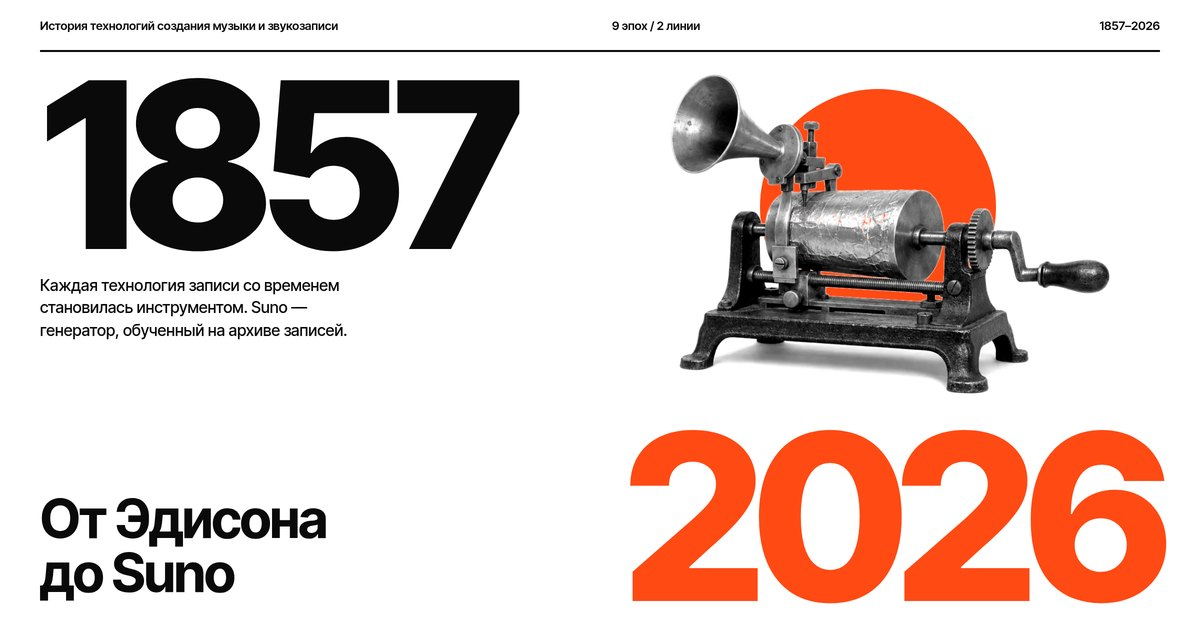
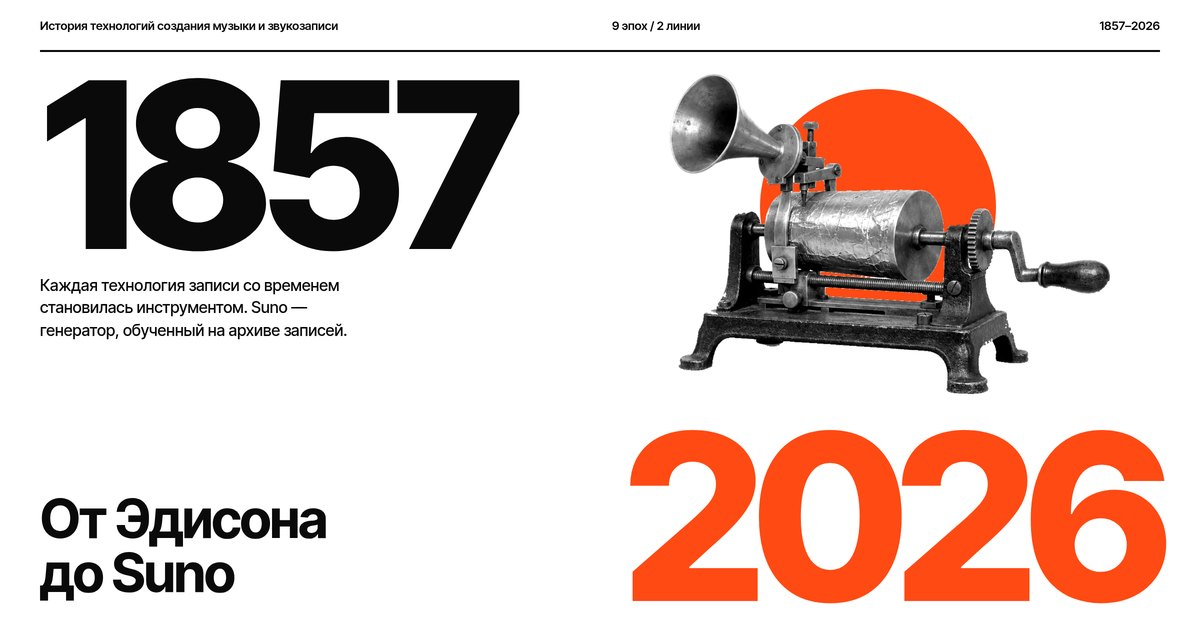
Обновление music-history (grok-lab 81797a2, noindex) (#29)
Заменяю /music-history/ сборкой music-history-dist-81797a2.tar.gz: новые картинки Арт-директора и перерисованный og.jpg. Файлы, которых нет в новой сборке, убираю. Другие страницы, sitemap и robots не трогаю. Черновик pimenov/grok-lab#25 не трогаю.

diff --git a/music-history/assets/index-BosEM7av.css b/music-history/assets/index-BosEM7av.css
@@ -1,0 +1,1 @@
+@font-face{font-family:Inter Tight;font-style:normal;font-display:swap;font-weight:500;src:url(/music-history/assets/inter-tight-cyrillic-500-normal-5ykfyGeh.woff2) format("woff2"),url(/music-history/assets/inter-tight-cyrillic-500-normal-CRXauZSq.woff) format("woff")}@font-face{font-family:Inter Tight;font-style:normal;font-display:swap;font-weight:600;src:url(/music-history/assets/inter-tight-cyrillic-600-normal-BERwQ0yl.woff2) format("woff2"),url(/music-history/assets/inter-tight-cyrillic-600-normal-BeTasGgk.woff) format("woff")}@font-face{font-family:Inter Tight;font-style:normal;font-display:swap;font-weight:700;src:url(/music-history/assets/inter-tight-cyrillic-700-normal-DtWWjp29.woff2) format("woff2"),url(/music-history/assets/inter-tight-cyrillic-700-normal-DDZiLR3d.woff) format("woff")}@font-face{font-family:Inter Tight;font-style:normal;font-display:swap;font-weight:800;src:url(/music-history/assets/inter-tight-cyrillic-800-normal-CC_RRmyd.woff2) format("woff2"),url(/music-history/assets/inter-tight-cyrillic-800-normal-ChWbk4mt.woff) format("woff")}@font-face{font-family:Inter Tight;font-style:normal;font-display:swap;font-weight:500;src:url(/music-history/assets/inter-tight-latin-500-normal-BFXNXuvF.woff2) format("woff2"),url(/music-history/assets/inter-tight-latin-500-normal-pobXraBK.woff) format("woff")}@font-face{font-family:Inter Tight;font-style:normal;font-display:swap;font-weight:600;src:url(/music-history/assets/inter-tight-latin-600-normal-BgSTtRxb.woff2) format("woff2"),url(/music-history/assets/inter-tight-latin-600-normal-D7bG6gX1.woff) format("woff")}@font-face{font-family:Inter Tight;font-style:normal;font-display:swap;font-weight:700;src:url(/music-history/assets/inter-tight-latin-700-normal-BZKd_v_8.woff2) format("woff2"),url(/music-history/assets/inter-tight-latin-700-normal-DvYAVZQd.woff) format("woff")}@font-face{font-family:Inter Tight;font-style:normal;font-display:swap;font-weight:800;src:url(/music-history/assets/inter-tight-latin-800-normal-CRGCHRPv.woff2) format("woff2"),url(/music-history/assets/inter-tight-latin-800-normal-D2te1T7i.woff) format("woff")}:root{--o: #ff4a14;--bg: #ffffff;--fg: #0a0a0a;--g: #7c7c78;--rule: rgba(10, 10, 10, .14);--img: none;--pad: 48px;color-scheme:light}:root[data-theme=dark]{--bg: #0a0a0a;--fg: #f4f4f0;--g: #9a9a96;--rule: rgba(244, 244, 240, .2);--img: none;color-scheme:dark}@media(prefers-color-scheme:dark){:root:not([data-theme=light]){--bg: #0a0a0a;--fg: #f4f4f0;--g: #9a9a96;--rule: rgba(244, 244, 240, .2);--img: none;color-scheme:dark}}*{box-sizing:border-box;margin:0;padding:0}html{background:var(--bg)}body{background:var(--bg);color:var(--fg);font-family:Inter Tight,Helvetica Neue,Arial,sans-serif;font-weight:500;-webkit-font-smoothing:antialiased;text-rendering:optimizeLegibility}img{display:block;max-width:100%;height:auto}ul,ol{list-style:none}h1,h2,h3{font:inherit}.wrap{max-width:1760px;margin:0 auto;padding:0 var(--pad);overflow-x:clip}.top{display:grid;grid-template-columns:repeat(12,1fr);column-gap:24px;align-items:center;min-height:64px;border-bottom:2px solid var(--fg);font-size:13px;font-weight:600}.t-title{grid-column:1 / 7}.t-meta{grid-column:7 / 10}.t-end{grid-column:10 / 13;display:flex;justify-content:flex-end;align-items:center;gap:18px}.theme{display:inline-flex;border:1.5px solid var(--fg)}.theme button{font:inherit;font-size:11px;font-weight:700;letter-spacing:.04em;text-transform:uppercase;color:var(--fg);background:transparent;border:0;padding:5px 8px;cursor:pointer}.theme button+button{border-left:1.5px solid var(--fg)}.theme button[aria-pressed=true]{background:var(--fg);color:var(--bg)}.theme button:focus-visible{outline:2px solid var(--o);outline-offset:2px}.hero{position:relative;container-type:inline-size}.hero .big,.hero .big2{font-weight:800;line-height:.8;letter-spacing:-.06em;white-space:nowrap}.hero .big2{color:var(--o)}.hero h1{font-weight:700;line-height:1;letter-spacing:-.03em}.hero .th{font-size:17px;line-height:1.4;font-weight:500}.ph-wrap{position:relative;margin:0}.hero .ph{position:relative;width:100%;filter:var(--img)}.hero .disc{position:absolute;border-radius:50%;background:var(--o)}.hero .disc:after{content:"";position:absolute;top:46.5%;right:46.5%;bottom:46.5%;left:46.5%;border-radius:50%;background:var(--bg)}.cap,figcaption{font-size:11px;font-weight:600;color:var(--g);text-transform:uppercase;letter-spacing:.05em}@media(min-width:900px){.hero{aspect-ratio:1344 / 836}.hero>*{position:absolute}.hero .big{left:0;top:2.1cqw;font-size:24.55cqw}.hero .big2{right:0;bottom:2.2cqw;font-size:24.55cqw}.hero .th{left:0;top:23.7cqw;width:29.8cqw;font-size:clamp(15px,1.27cqw,21px)}.hero h1{left:0;bottom:4.2cqw;font-size:4.76cqw}.ph-wrap{right:4.46cqw;top:5.2cqw;width:41.67cqw}.hero .disc{width:53.6%;aspect-ratio:1;right:25.9%;top:4.6%}.hero .cap{position:absolute;right:0;top:calc(100% + 1.4cqw)}}.head{display:grid;grid-template-columns:repeat(12,1fr);column-gap:24px;border-top:8px solid var(--fg);padding:18px 0 14px;font-size:13px;font-weight:700;text-transform:uppercase;letter-spacing:.06em}.head .h1{grid-column:1 / 4}.head .h2{grid-column:4 / 8}.head .h3{grid-column:8 / 13}.row{display:grid;grid-template-columns:repeat(12,1fr);column-gap:24px;border-top:2px solid var(--fg);padding:22px 0 34px;min-height:330px}.c-y{grid-column:1 / 4}.c-m{grid-column:4 / 8;border-left:1px solid var(--rule);padding-left:24px}.c-r{grid-column:8 / 13;border-left:1px solid var(--rule);padding-left:24px}.num{font-size:clamp(88px,8.9vw,140px);font-weight:800;letter-spacing:-.06em;line-height:.82}.rng{display:block;margin-top:14px;font-size:14px;font-weight:600}.lb{display:block;margin-top:4px;font-size:14px;color:var(--o);font-weight:600}.row ul,.cols2 ul{font-size:17px;line-height:1.45;font-weight:500}figure{margin-top:22px}.row figure img{height:200px;width:auto;max-width:100%;object-fit:contain;object-position:left bottom;filter:var(--img)}.row figure img.tall{height:260px}figcaption{margin-top:8px}.conv{display:block;width:100%;height:110px;border-top:2px solid var(--fg)}.conv path{fill:none;stroke:var(--o);stroke-width:3;vector-effect:non-scaling-stroke}.merge{--fg-m: #0a0a0a;background:var(--o);color:var(--fg-m);margin:0 calc(-1 * var(--pad));padding:36px var(--pad) 56px;border-top:8px solid var(--fg-m)}.m-grid{display:grid;grid-template-columns:repeat(12,1fr);column-gap:24px}.merge .c-y{grid-column:1 / 4}.merge .lb{color:var(--fg-m)}.merge .mid{grid-column:4 / 13;display:grid;grid-template-columns:1fr 1fr;gap:24px;align-items:start}.merge .ttl{font-size:clamp(80px,8.4vw,132px);font-weight:800;letter-spacing:-.06em;line-height:.85}.merge .ttl small{display:block;font-size:20px;letter-spacing:-.01em;font-weight:600;line-height:1.3;margin-top:16px;max-width:26ch}.merge .ai{justify-self:end;height:280px;width:auto;max-width:100%;object-fit:contain;object-position:right top}.cols2{grid-column:1 / 13;display:grid;grid-template-columns:repeat(12,1fr);column-gap:24px;margin-top:28px}.cols2 .a{grid-column:4 / 8}.cols2 .b{grid-column:8 / 13}.cols2 h3{font-size:13px;font-weight:700;text-transform:uppercase;letter-spacing:.06em;margin-bottom:6px}.suno{grid-column:1 / 13;display:grid;grid-template-columns:repeat(7,1fr);gap:24px;border-top:2px solid var(--fg-m);padding-top:18px;margin-top:40px}.suno b{display:block;font-size:clamp(36px,3.1vw,52px);font-weight:800;letter-spacing:-.04em;line-height:1.1}.suno time{font-size:13px;font-weight:600;font-variant-numeric:tabular-nums}footer{padding:56px 0 40px}.thesis{font-size:clamp(32px,3.4vw,60px);font-weight:700;letter-spacing:-.03em;line-height:1.05}.thesis span{color:var(--o)}.credit{margin-top:40px;padding-top:14px;border-top:2px solid var(--fg);font-size:11px;font-weight:600;color:var(--g);text-transform:uppercase;letter-spacing:.05em}@media(max-width:899px){:root{--pad: 28px}.top{display:flex;flex-wrap:wrap;gap:6px 16px;padding:12px 0;font-size:12px}.t-title{flex:1 1 100%}.t-meta{flex:1 1 auto}.t-end{flex:0 0 auto;gap:12px}.hero{display:flex;flex-direction:column;padding:20px 0 28px}.hero .big,.hero .big2{font-size:39vw}.hero .big2{align-self:flex-end;margin-top:28px}.ph-wrap{width:82%;align-self:flex-end;margin-top:-2vw}.hero .disc{width:56%;aspect-ratio:1;right:6%;top:-2%}.hero .cap{margin-top:10px;text-align:right}.hero .th{margin-top:18px;font-size:16px;max-width:34ch}.hero h1{margin-top:16px;font-size:clamp(40px,10.6vw,64px)}.head{display:none}.row{grid-template-columns:1fr 1fr;row-gap:20px;min-height:0;padding:20px 0 30px}.c-y{grid-column:1 / -1}.c-m{grid-column:1 / 2;border-left:0;padding-left:0}.c-r{grid-column:2 / 3}[data-col]:before{content:attr(data-col);display:block;margin-bottom:8px;font-size:11px;font-weight:700;text-transform:uppercase;letter-spacing:.06em;color:var(--g)}.num{font-size:clamp(88px,22vw,140px)}.row figure img{height:180px}.row figure img.tall{height:240px}.conv{display:none}.merge{padding:28px var(--pad) 40px}.merge .c-y,.merge .mid,.cols2 .a,.cols2 .b{grid-column:1 / -1}.merge .mid{grid-template-columns:1fr;margin-top:22px;gap:18px}.merge .ai{justify-self:start;height:auto;width:min(100%,340px)}.cols2{row-gap:18px}.suno{grid-template-columns:repeat(3,1fr);row-gap:18px;column-gap:16px;margin-top:32px}.suno li:last-child{grid-column:1 / -1;border-top:2px solid var(--fg-m);padding-top:14px}.suno li:last-child b{font-size:72px}}@media(max-width:599px){:root{--pad: 20px}.row{grid-template-columns:1fr}.c-m,.c-r{grid-column:1 / -1}.c-r{border-left:0;padding-left:0;border-top:1px solid var(--rule);padding-top:18px}}@media(prefers-reduced-motion:no-preference){.theme button{transition:background-color .15s,color .15s}}

diff --git a/music-history/index.html b/music-history/index.html
@@ -26,8 +26,8 @@
     <script>
       try { var t = localStorage.getItem('mh-theme'); if (t === 'light' || t === 'dark') document.documentElement.dataset.theme = t; } catch (_) {}
     </script>
-    <script type="module" crossorigin src="/music-history/assets/index-CN0f68r6.js"></script>
-    <link rel="stylesheet" crossorigin href="/music-history/assets/index-CAGWf9r-.css">
+    <script type="module" crossorigin src="/music-history/assets/index-DBLFZZJ3.js"></script>
+    <link rel="stylesheet" crossorigin href="/music-history/assets/index-BosEM7av.css">
   </head>
   <body>
     <div class="wrap">
@@ -43,7 +43,7 @@
           <div class="big" aria-hidden="true">1857</div>
           <figure class="ph-wrap">
             <div class="disc" aria-hidden="true"></div>
-            <img class="ph" src="/music-history/assets/phonograph-560-BThQbQwe.webp" srcset="/music-history/assets/phonograph-560-BThQbQwe.webp 560w, /music-history/assets/phonograph-900-Da0lwvns.webp 900w" sizes="(max-width: 899px) 82vw, min(41vw, 720px)" width="900" height="661" alt="Фонограф Эдисона: металлический цилиндр с ручкой и рупор на чугунной станине" fetchpriority="high" decoding="async">
+            <img class="ph" src="/music-history/assets/phonograph-600-BtGowPwj.webp" srcset="/music-history/assets/phonograph-600-BtGowPwj.webp 600w, /music-history/assets/phonograph-1200-DHYG77Um.webp 1200w" sizes="(max-width: 899px) 82vw, min(41vw, 720px)" width="1200" height="873" alt="Фонограф Эдисона: металлический цилиндр с ручкой и рупор на чугунной станине" fetchpriority="high" decoding="async">
             <figcaption class="cap">Фонограф Эдисона, 1877</figcaption>
           </figure>
           <p class="th">Каждая технология записи со временем становилась инструментом. Suno — генератор, обученный на архиве записей.</p>
@@ -68,7 +68,7 @@
       </article>
       <article class="row" aria-labelledby="era-1945">
         <div class="c-y"><div class="num" aria-hidden="true">1945</div><h2 id="era-1945"><span class="rng">1945–1959</span><span class="lb">Студия как инструмент</span></h2></div>
-        <div class="c-m" data-col="Создание музыки"><ul><li>Musique concrète, 1948</li><li>Fender Esquire, 1950</li><li>8 дорожек Ampex, 1955</li></ul><figure><img src="/music-history/assets/tape-320-B-APaFiX.webp" srcset="/music-history/assets/tape-320-B-APaFiX.webp 320w, /music-history/assets/tape-640-CV48W13Z.webp 640w" sizes="225px" width="640" height="569" alt="Студийный катушечный магнитофон с двумя бобинами плёнки" loading="lazy" decoding="async"><figcaption>Многодорожечная запись, 1955</figcaption></figure></div>
+        <div class="c-m" data-col="Создание музыки"><ul><li>Musique concrète, 1948</li><li>Fender Esquire, 1950</li><li>8 дорожек Ampex, 1955</li></ul><figure><img class="tall" src="/music-history/assets/tape-180-IKMxCP7f.webp" srcset="/music-history/assets/tape-180-IKMxCP7f.webp 180w, /music-history/assets/tape-360-D9x-UUUZ.webp 360w" sizes="165px" width="360" height="567" alt="Студийный катушечный магнитофон 1950-х в напольной стойке с индикаторами и ручками" loading="lazy" decoding="async"><figcaption>Многодорожечная запись, 1955</figcaption></figure></div>
         <div class="c-r" data-col="Звукозапись"><ul><li>LP Columbia, 1948</li><li>Сингл 45 об/мин, 1949</li><li>Стереодиск, 1957</li></ul><figure><img src="/music-history/assets/vinyl-320-jzRLHdkf.webp" srcset="/music-history/assets/vinyl-320-jzRLHdkf.webp 320w, /music-history/assets/vinyl-640-UZ0rdKu-.webp 640w" sizes="287px" width="640" height="446" alt="Долгоиграющая виниловая пластинка, выдвинутая из конверта" loading="lazy" decoding="async"><figcaption>Долгоиграющая пластинка, 1948</figcaption></figure></div>
       </article>
       <article class="row" aria-labelledby="era-1960">
@@ -84,12 +84,12 @@
       <article class="row" aria-labelledby="era-1991">
         <div class="c-y"><div class="num" aria-hidden="true">1991</div><h2 id="era-1991"><span class="rng">1991–2002</span><span class="lb">Компьютер — студия</span></h2></div>
         <div class="c-m" data-col="Создание музыки"><ul><li>Pro Tools, 1991</li><li>VST, 1996</li><li>Auto-Tune, 1997</li><li>Ableton Live, 2001</li></ul><figure><img src="/music-history/assets/computer-320-Ccso5JzK.webp" srcset="/music-history/assets/computer-320-Ccso5JzK.webp 320w, /music-history/assets/computer-640-DeduQ62J.webp 640w" sizes="196px" width="640" height="654" alt="Компьютер 1990-х с MIDI-клавиатурой и колонками, на экране звуковые дорожки" loading="lazy" decoding="async"><figcaption>Компьютер как студия, 1991</figcaption></figure></div>
-        <div class="c-r" data-col="Звукозапись"><ul><li>MP3, 1993</li><li>Napster, 1999</li></ul></div>
+        <div class="c-r" data-col="Звукозапись"><ul><li>MP3, 1993</li><li>Napster, 1999</li></ul><figure><img class="tall" src="/music-history/assets/mp3player-180-g3-Q8j43.webp" srcset="/music-history/assets/mp3player-180-g3-Q8j43.webp 180w, /music-history/assets/mp3player-360-BCgs7R9P.webp 360w" sizes="210px" width="360" height="445" alt="Карманный MP3-плеер с экраном, кнопками управления и наушниками" loading="lazy" decoding="async"><figcaption>MP3-плеер</figcaption></figure></div>
       </article>
       <article class="row" aria-labelledby="era-2003">
         <div class="c-y"><div class="num" aria-hidden="true">2003</div><h2 id="era-2003"><span class="rng">2003–2019</span><span class="lb">Стриминг</span></h2></div>
         <div class="c-m" data-col="Создание музыки"><ul><li>Студия на ноутбуке</li></ul><figure><img src="/music-history/assets/laptop-320-CYgAByB8.webp" srcset="/music-history/assets/laptop-320-CYgAByB8.webp 320w, /music-history/assets/laptop-640-DQvCj64E.webp 640w" sizes="317px" width="640" height="404" alt="Ноутбук с открытым музыкальным редактором и студийные наушники" loading="lazy" decoding="async"><figcaption>Студия на ноутбуке</figcaption></figure></div>
-        <div class="c-r" data-col="Звукозапись"><ul><li>iTunes Store, 2003</li><li>YouTube, 2005</li><li>Spotify, 2008</li></ul></div>
+        <div class="c-r" data-col="Звукозапись"><ul><li>iTunes Store, 2003</li><li>YouTube, 2005</li><li>Spotify, 2008</li></ul><figure><img class="tall" src="/music-history/assets/smartphone-120-TW40kzYB.webp" srcset="/music-history/assets/smartphone-120-TW40kzYB.webp 120w, /music-history/assets/smartphone-240-De3ZnO8U.webp 240w" sizes="108px" width="240" height="578" alt="Смартфон с открытым музыкальным приложением: обложка трека и кнопки воспроизведения" loading="lazy" decoding="async"><figcaption>Стриминг в смартфоне</figcaption></figure></div>
       </article>
         <svg class="conv" viewBox="0 0 1344 110" preserveAspectRatio="none" aria-hidden="true" focusable="false"><path d="M342 0 V30 C342 80 570 60 570 110" /><path d="M798 0 V30 C798 80 570 60 570 110" /></svg>
         <section class="merge" aria-labelledby="era-2020">
@@ -97,7 +97,7 @@
             <div class="c-y"><div class="num" aria-hidden="true">2020</div><h2 id="era-2020"><span class="rng">2020–2026</span><span class="lb">Генеративный ИИ: линии сходятся</span></h2></div>
             <div class="mid">
               <p class="ttl">Suno<small>Генератор, обученный на архиве записей. Широкий доступ — <time datetime="2023-12-20">20.12.2023</time></small></p>
-              <img class="ai" src="/music-history/assets/ai-400-Dut1lxAt.webp" srcset="/music-history/assets/ai-400-Dut1lxAt.webp 400w, /music-history/assets/ai-800-Dn-X913N.webp 800w" sizes="(max-width: 899px) 90vw, 400px" width="800" height="466" alt="Абстрактная звуковая волна — образ музыки, созданной нейросетью" loading="lazy" decoding="async">
+              <img class="ai" src="/music-history/assets/ai-420-B-A8ml_Z.webp" srcset="/music-history/assets/ai-420-B-A8ml_Z.webp 420w, /music-history/assets/ai-840-BZDv4aPS.webp 840w" sizes="(max-width: 899px) 90vw, 330px" width="840" height="704" alt="Планшет со строкой текстового запроса, оранжевой звуковой волной и кнопкой воспроизведения" loading="lazy" decoding="async">
             </div>
             <div class="cols2">
               <div class="a"><h3>Создание</h3><ul><li>Jukebox, 2020</li><li>MusicLM, 2023</li><li>Suno, 2023</li><li>Udio, 2024</li></ul></div>
